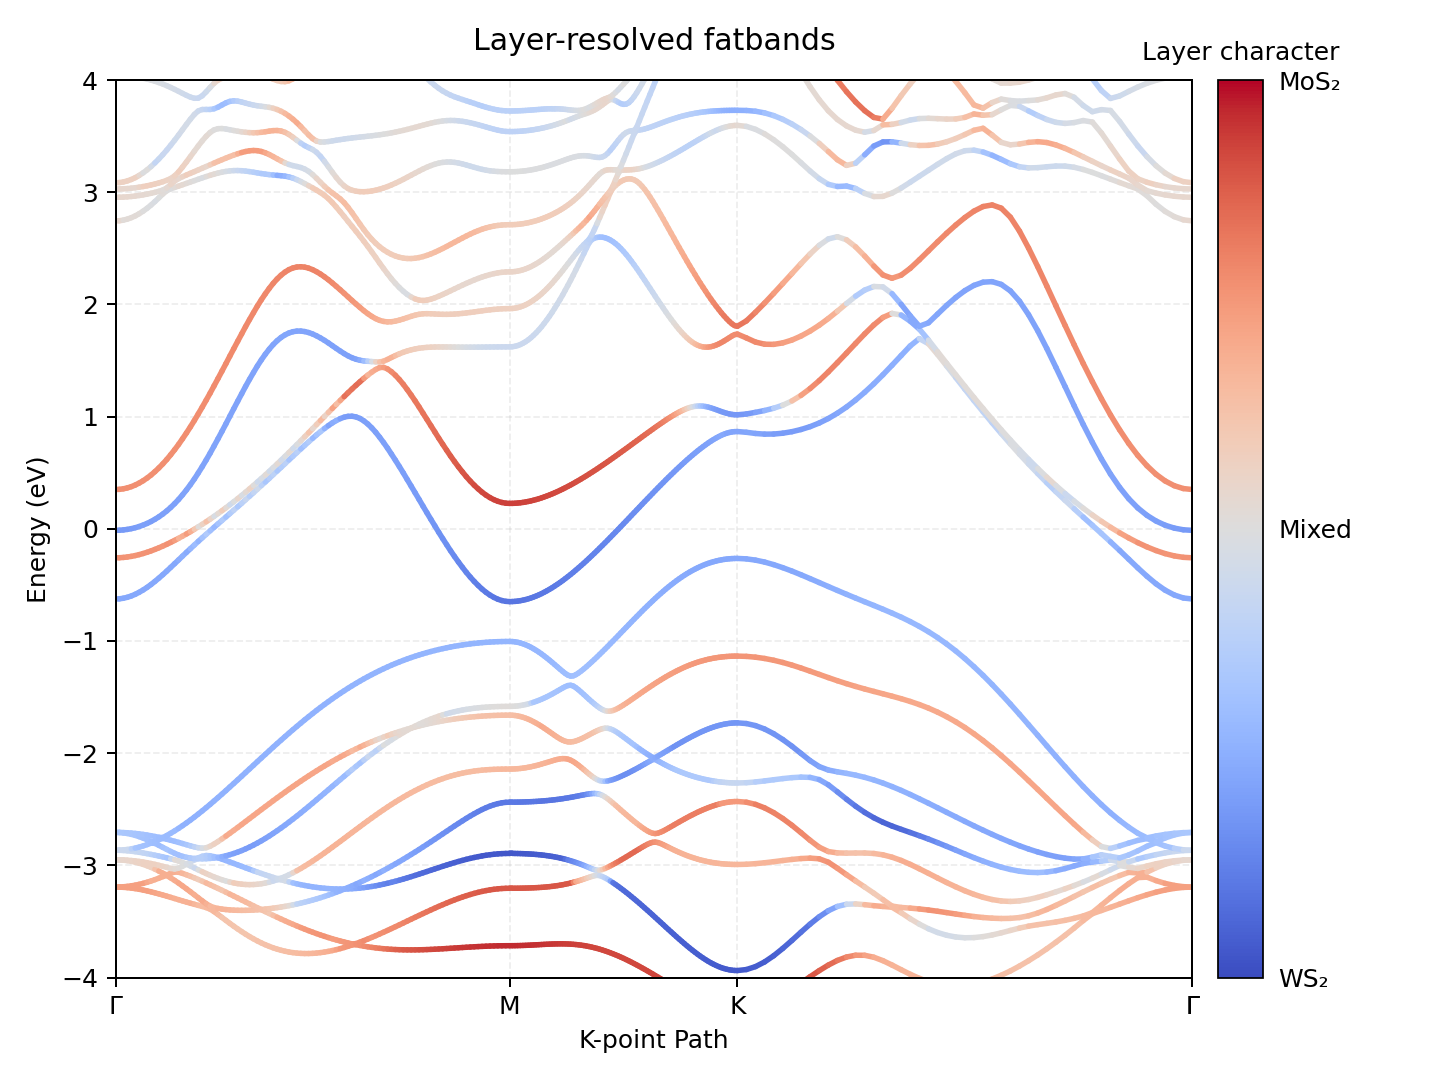
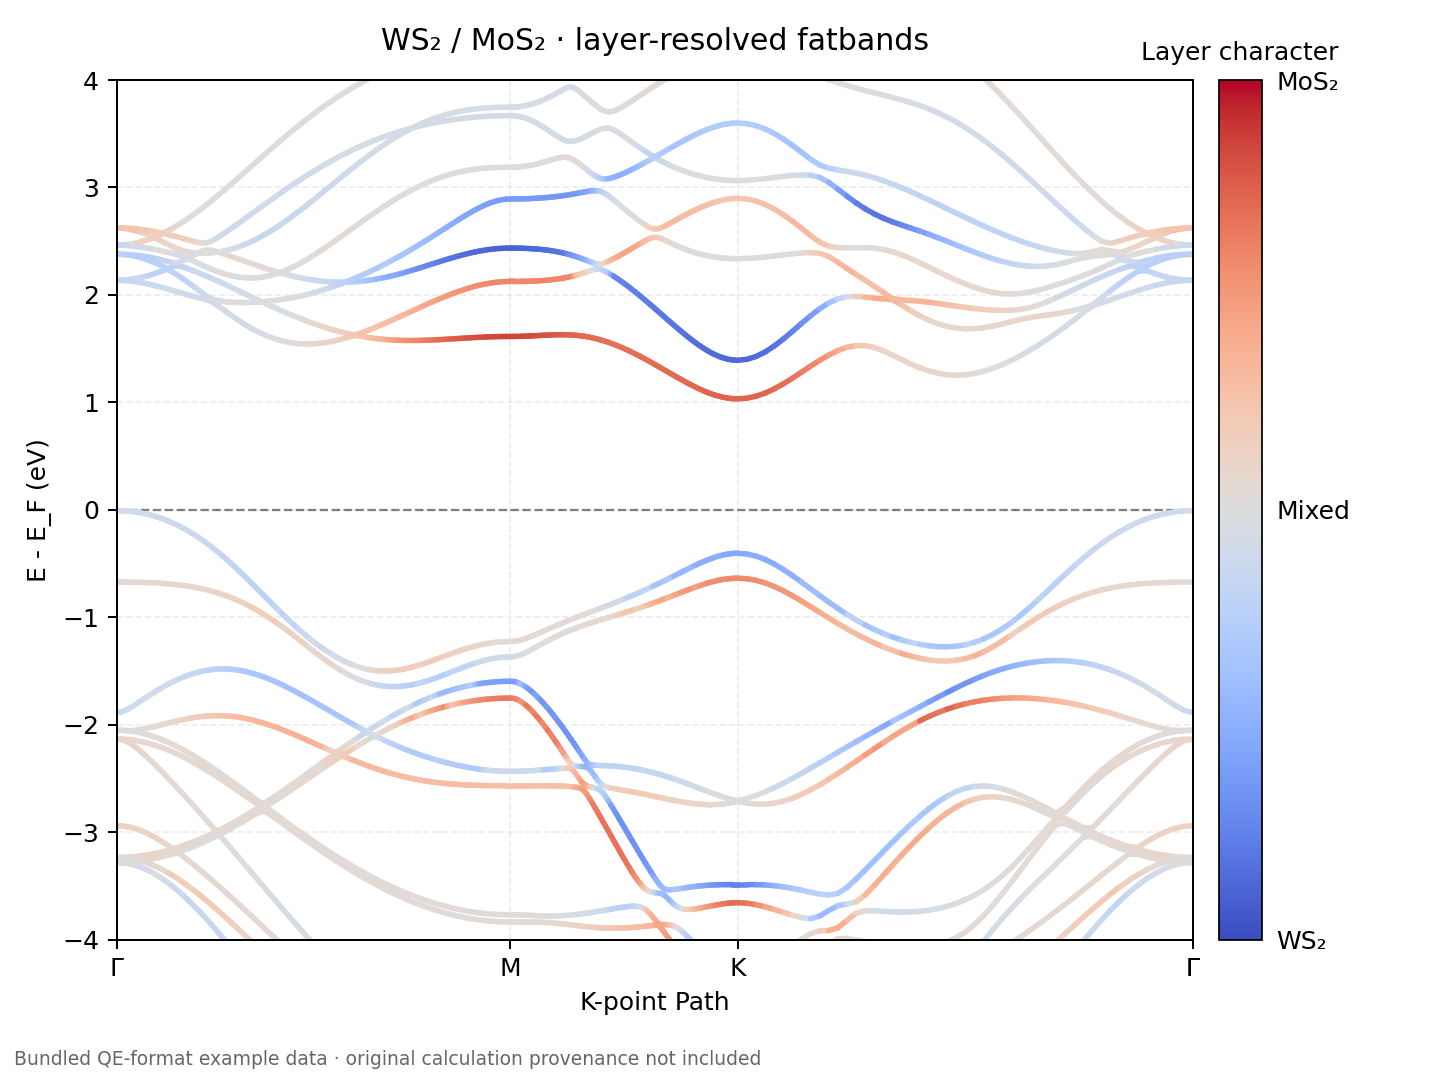
Label bilayer materials and example provenance

diff --git a/qep.py b/qep.py
@@ -90,6 +90,17 @@ def _layer_material_labels(atom_names, layer_assignment):
         return f"{bottom} · lower", f"{top} · upper"
     return bottom, top
 
+
+def _layer_plot_title(bottom_material, top_material):
+    """Build a concise, material-aware title for a bilayer band plot."""
+    bottom_formula = bottom_material.split(" · ", 1)[0]
+    top_formula = top_material.split(" · ", 1)[0]
+    if bottom_formula == top_formula:
+        material_name = f"{bottom_formula} bilayer"
+    else:
+        material_name = f"{bottom_formula} / {top_formula}"
+    return f"{material_name} · layer-resolved fatbands"
+
 # ==============================
 # K-POINTS / BAND READING UTILS
 # ==============================
@@ -1229,7 +1240,8 @@ def plot_fatbands(
         sub_orb=False,
         x_range=None,
         show_band_gap=False,
-        scf_file=None
+        scf_file=None,
+        data_note=None,
 ):
     """
       Plot fatbands from Quantum ESPRESSO data.
@@ -1290,6 +1302,9 @@ def plot_fatbands(
         Output resolution (dots per inch) for the plot figure.
     layer_assignment : dict, optional
         Only for 'layer' mode. Dictionary mapping atom names (e.g., 'Mo1', 'S3') to 'top' or 'bottom' layer.
+    data_note : str, optional
+        Provenance or status note printed below the plot. Use this to identify
+        demonstration, synthetic, or otherwise unverified data explicitly.
     save_dir : str, optional
         Directory to save the plot. Default "saved".
     savefig : str, optional
@@ -1695,7 +1710,9 @@ def plot_fatbands(
         if y_range:
             ax1.set_ylim(y_range)
         if mode == 'layer':
-            ax1.set_title('Layer-resolved fatbands', pad=12)
+            ax1.set_title(
+                _layer_plot_title(bottom_material, top_material), pad=12
+            )
         else:
             title_mode = mode if mode != 'normal' else f"Highlight {highlight_channel}"
             ax1.set_title(f'Fatbands ({title_mode})')
@@ -1756,7 +1773,14 @@ def plot_fatbands(
             gap_info = _find_band_gap(x_dist, _be, fermi_level, shift_fermi, scf_file=scf_file)
             _annotate_band_gap(ax1, gap_info)
 
-        plt.tight_layout()
+        if data_note:
+            fig.text(
+                0.01, 0.01, str(data_note), ha='left', va='bottom',
+                fontsize=7.5, color='#666666',
+            )
+            fig.tight_layout(rect=(0, 0.035, 1, 1))
+        else:
+            fig.tight_layout()
         if savefig:
             if not os.path.exists(save_dir):
                 os.makedirs(save_dir)
@@ -1948,7 +1972,8 @@ def plot_from_file(
         sub_orb=False,
         vertical=False,
         show_band_gap=False,
-        scf_file=None
+        scf_file=None,
+        data_note=None,
 
 ):
     """
@@ -2064,7 +2089,7 @@ def plot_from_file(
             dos_file=dos_file,
             x_range=x_range,
             show_band_gap=show_band_gap,
-            scf_file=scf_file
+            scf_file=scf_file,
         )
     elif pt == 'dos':
         plot_dos(dos_file, fermi_level, shift_fermi, y_range, x_range=x_range, dpi=dpi,
@@ -2119,7 +2144,8 @@ def plot_from_file(
             sub_orb=sub_orb,
             x_range=x_range,
             show_band_gap=show_band_gap,
-            scf_file=scf_file
+            scf_file=scf_file,
+            data_note=data_note,
         )
     else:
         raise ValueError("Use 'band','dos','pdos', or 'fatbands' for plot_type")

diff --git a/qeplotter/plotting/fatbands.py b/qeplotter/plotting/fatbands.py
@@ -42,6 +42,17 @@ def _layer_material_labels(atom_names, layer_assignment):
         return f"{bottom} · lower", f"{top} · upper"
     return bottom, top
 
+
+def _layer_plot_title(bottom_material, top_material):
+    """Build a concise, material-aware title for a bilayer band plot."""
+    bottom_formula = bottom_material.split(" · ", 1)[0]
+    top_formula = top_material.split(" · ", 1)[0]
+    if bottom_formula == top_formula:
+        material_name = f"{bottom_formula} bilayer"
+    else:
+        material_name = f"{bottom_formula} / {top_formula}"
+    return f"{material_name} · layer-resolved fatbands"
+
 def plot_fatbands(
     fatband_dir,
     kpath_file,
@@ -69,7 +80,8 @@ def plot_fatbands(
         sub_orb=False,
         x_range=None,
         show_band_gap=False,
-        scf_file=None
+        scf_file=None,
+        data_note=None,
 ):
     """
       Plot fatbands from Quantum ESPRESSO data.
@@ -124,6 +136,9 @@ def plot_fatbands(
         Output resolution (dots per inch).
     layer_assignment : dict, optional
         Only for 'layer' mode. Dictionary mapping atom names to 'top' or 'bottom' layer.
+    data_note : str, optional
+        Provenance or status note printed below the plot. Use this to identify
+        demonstration, synthetic, or otherwise unverified data explicitly.
     save_dir : str, optional
         Directory to save the plot. Default "saved".
     savefig : str, optional
@@ -603,8 +618,9 @@ def plot_fatbands(
             ax1.set_ylim(y_range)
 
         if mode == 'layer':
-
-            ax1.set_title('Layer-resolved fatbands', pad=12)
+            ax1.set_title(
+                _layer_plot_title(bottom_material, top_material), pad=12
+            )
 
         else:
 
@@ -683,7 +699,14 @@ def plot_fatbands(
             gap_info = _find_band_gap(x_dist, _be, fermi_level, shift_fermi, scf_file=scf_file)
             _annotate_band_gap(ax1, gap_info)
 
-        plt.tight_layout()
+        if data_note:
+            fig.text(
+                0.01, 0.01, str(data_note), ha='left', va='bottom',
+                fontsize=7.5, color='#666666',
+            )
+            fig.tight_layout(rect=(0, 0.035, 1, 1))
+        else:
+            fig.tight_layout()
         if savefig:
             if not os.path.exists(save_dir):
                 os.makedirs(save_dir)

diff --git a/tests/test_regressions.py b/tests/test_regressions.py
@@ -15,7 +15,10 @@ from qeplotter.api import launch_gui
 from qeplotter.converters.soc import _cg_prob
 from qeplotter.core.io import read_band_xdistances
 from qeplotter.plotting.dos import plot_pdos_dir
-from qeplotter.plotting.fatbands import _layer_material_labels
+from qeplotter.plotting.fatbands import (
+    _layer_material_labels,
+    _layer_plot_title,
+)
 
 
 ROOT = Path(__file__).resolve().parents[1]
@@ -80,8 +83,8 @@ class GeneralRegressionTests(unittest.TestCase):
     def test_layer_legend_uses_material_formulas(self):
         atom_names = ["W1", "Mo2", "S3", "S4", "S5", "S6"]
         assignment = {
-            "W1": "bottom", "S3": "bottom", "S4": "bottom",
-            "Mo2": "top", "S5": "top", "S6": "top",
+            "W1": "bottom", "S4": "bottom", "S6": "bottom",
+            "Mo2": "top", "S3": "top", "S5": "top",
         }
         self.assertEqual(
             _layer_material_labels(atom_names, assignment),
@@ -97,6 +100,16 @@ class GeneralRegressionTests(unittest.TestCase):
         self.assertEqual(
             _layer_material_labels(atom_names, assignment),
             ("MoS₂ · lower", "MoS₂ · upper"),
+        )
+
+    def test_layer_plot_title_names_hetero_and_homobilayers(self):
+        self.assertEqual(
+            _layer_plot_title("WS₂", "MoS₂"),
+            "WS₂ / MoS₂ · layer-resolved fatbands",
+        )
+        self.assertEqual(
+            _layer_plot_title("MoS₂ · lower", "MoS₂ · upper"),
+            "MoS₂ bilayer · layer-resolved fatbands",
         )
 
     def test_uploaded_filename_cannot_escape_session_directory(self):

diff --git a/qeplotter/api.py b/qeplotter/api.py
@@ -44,7 +44,8 @@ def plot_from_file(
     sub_orb=False,
     vertical=False,
     show_band_gap=False,
-    scf_file=None
+    scf_file=None,
+    data_note=None,
 ):
     """
     High-level wrapper for plotting Quantum ESPRESSO band, DOS, PDOS, and fatbands in one function.
@@ -74,7 +75,7 @@ def plot_from_file(
             dos_file=dos_file,
             x_range=x_range,
             show_band_gap=show_band_gap,
-            scf_file=scf_file
+            scf_file=scf_file,
         )
     elif pt == 'dos':
         plot_dos(
@@ -132,7 +133,8 @@ def plot_from_file(
             sub_orb=sub_orb,
             x_range=x_range,
             show_band_gap=show_band_gap,
-            scf_file=scf_file
+            scf_file=scf_file,
+            data_note=data_note,
         )
     else:
         raise ValueError("Use 'band','dos','pdos', 'overlay_band', or 'fatbands' for plot_type")

diff --git a/gui/page_plot.py b/gui/page_plot.py
@@ -247,6 +247,14 @@ def render_dashboard():
                                     f"Plot colour scale: **{bottom_name}** → "
                                     f"mixed → **{top_name}**"
                                 )
+                        args['data_note'] = st.text_input(
+                            "Data source note (optional)",
+                            help=(
+                                "Printed below the figure. Identify synthetic, "
+                                "demonstration, or unverified data explicitly."
+                            ),
+                            placeholder="e.g. QE calculation: PBE, 12×12×1 mesh",
+                        )
 
                 # Dynamic Highlight Channels List
                 atoms, elements, orbitals, exp_orbs = get_available_channels(paths.get('fatband_dir'))

diff --git a/README.md b/README.md
@@ -96,7 +96,10 @@ The views below were generated from the included
 QEPlotter identifies its `P-6m2` symmetry, constructs the conventional
 high-symmetry band path, and reduces a `6 × 6 × 1` mesh to seven irreducible
 k-points. The symmetry view shows the calculated Mo d-orbital representation
-at Γ. The final plot uses the included WS₂/MoS₂ heterobilayer projection data.
+at Γ. The final plot uses a historical QE-format WS₂/MoS₂ example bundled with
+the repository. Its original calculation inputs and provenance are not included,
+so the figure is labelled as example data rather than presented as a validated
+scientific result. See the [dataset provenance note](examples/nsp_demo/README.md).
 
 <p align="center">
   <img src="docs/images/mos2-structure-explorer.jpg" width="49%" alt="MoS2 monolayer in the QEPlotter crystal structure explorer">
@@ -309,6 +312,7 @@ The `plot_from_file` function is the main entry point. Below is the **exhaustive
 | **`highlight_channel`** | `str/tuple` | `None` | Atoms/orbitals to highlight. Ex: `'Mo'` or `('Mo', 'S')`. |
 | **`dual`** | `bool` | `False` | Two-channel comparison in Line mode. |
 | **`layer_assignment`** | `dict` | `None` | Layer Mode: map every atom to `'top'` or `'bottom'`; material formulas are inferred for the colour scale. |
+| **`data_note`** | `str` | `None` | Optional provenance/status footer. Mark synthetic, demonstration, or unverified data directly on the figure. |
 | **`s_min`** | `float` | `10` | Minimum marker size (bubble plots). |
 | **`s_max`** | `float` | `100` | Maximum marker size (bubble plots). |
 | **`weight_threshold`** | `float` | `0.01` | Ignore orbital weights below this value. |
@@ -488,8 +492,8 @@ plot_from_file(
 from qeplotter import plot_from_file
 
 layer_map = {
-    'W1': 'bottom', 'S3': 'bottom', 'S4': 'bottom',
-    'Mo2': 'top', 'S5': 'top', 'S6': 'top',
+    'W1': 'bottom', 'S4': 'bottom', 'S6': 'bottom',
+    'Mo2': 'top', 'S3': 'top', 'S5': 'top',
 }
 
 plot_from_file(
@@ -500,12 +504,20 @@ plot_from_file(
     fatbands_mode='layer',
     layer_assignment=layer_map,
     cmap_name='coolwarm',
+    fermi_level=-5.33,
+    shift_fermi=True,
     y_range=(-4, 4),
+    data_note=(
+        'Bundled QE-format example data · '
+        'original calculation provenance not included'
+    ),
 )
 ```
 
 The colour-bar endpoints are derived automatically from `layer_map`: `WS₂` at
-the lower-layer end and `MoS₂` at the upper-layer end.
+the lower-layer end and `MoS₂` at the upper-layer end. The same material names
+also appear in the plot title. For publication or scientific comparison, use
+your own traceable QE outputs and record the calculation details in `data_note`.
 
 <p align="center">
   <img src="examples/nsp_demo/outputs/nsp_layer.png" width="700" alt="WS2 and MoS2 layer-resolved fatbands">

diff --git a/examples/nsp_demo/README.md b/examples/nsp_demo/README.md
@@ -1,0 +1,30 @@
+# WS₂/MoS₂ layer-projection example
+
+This directory contains historical Quantum ESPRESSO-format band and
+`projwfc.x` projection files that have been bundled with QEPlotter since the
+repository's first clean commit (2025-07-01). They are useful for exercising
+band, fatband, and layer-colour plotting.
+
+The original SCF/NSCF inputs, pseudopotentials, Quantum ESPRESSO version,
+convergence settings, and calculation record are not present. Consequently,
+these files must be treated as **unverified example data**, not as a validated
+or reproducible scientific result.
+
+The layer assignment preserved by the original notebook is:
+
+- lower WS₂ layer: `W1`, `S4`, `S6`;
+- upper MoS₂ layer: `Mo2`, `S3`, `S5`.
+
+Figures made from this dataset should include a visible provenance note, for
+example:
+
+```python
+data_note=(
+    "Bundled QE-format example data · "
+    "original calculation provenance not included"
+)
+```
+
+For research figures, replace these files with traceable calculation outputs
+and record the method, pseudopotentials, cutoffs, k-mesh, and calculation ID in
+the figure note or accompanying metadata.
